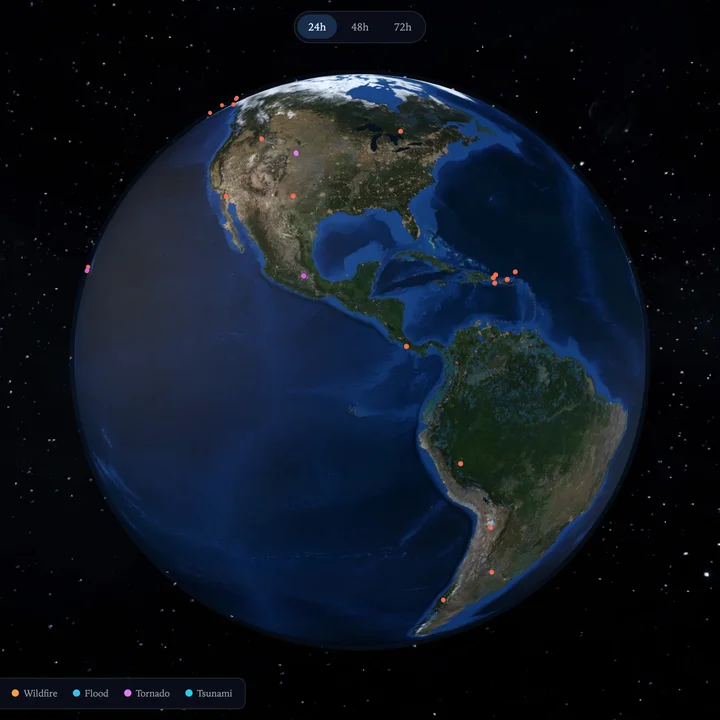
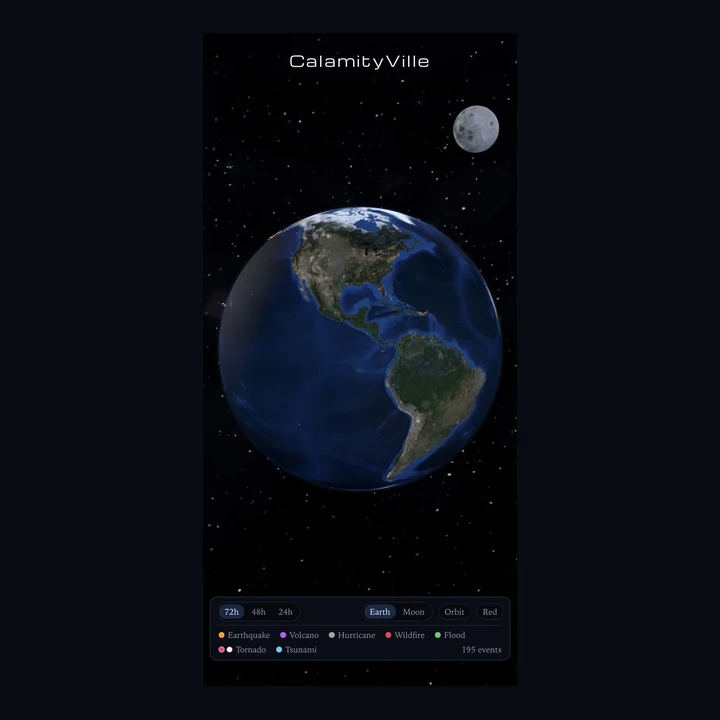
Update CalamityVille hub card from IMG_4185 letterboxed phone UI.
Match SuperMoon-style square card (full rectangular screenshot with
padding). Eager load like SuperMoon; local card links use HTTPS; add
serve-https.py for LAN hub preview.

diff --git a/index.html b/index.html
@@ -336,14 +336,15 @@
         </li>
 
         <li class="grid-item">
-          <a class="card" href="https://calamityville.markmaga.com" data-app="calamityville-app" aria-label="Calamityville">
+          <a class="card" href="https://calamityville.markmaga.com" data-app="calamityville-app" aria-label="CalamityVille">
             <span class="card-media">
               <img
-                src="images/calamityville-app.webp?v=1"
+                src="images/calamityville-app.webp?v=3"
                 alt=""
                 width="720"
                 height="720"
-                loading="lazy"
+                loading="eager"
+                fetchpriority="high"
                 decoding="async"
               />
               <span class="card-overlay" aria-hidden="true">
@@ -487,7 +488,8 @@
         const appHost = host === "localhost" ? "127.0.0.1" : host;
         document.querySelectorAll("a.card[data-app]").forEach((link) => {
           const port = LOCAL_PORTS[link.dataset.app];
-          if (port) link.href = `http://${appHost}:${port}/`;
+          /* Local previews use serve-https.py — https so card taps match live servers */
+          if (port) link.href = `https://${appHost}:${port}/`;
         });
       }
 

diff --git a/serve-https.py b/serve-https.py
@@ -1,0 +1,105 @@
+#!/usr/bin/env python3
+"""Serve markmaga-hub over HTTPS on all interfaces for Mac + phone LAN preview."""
+from http.server import ThreadingHTTPServer, SimpleHTTPRequestHandler
+from pathlib import Path
+import ssl
+import sys
+
+ROOT = Path(__file__).resolve().parent
+DEFAULT_PORT = 8870
+CERT = ROOT / ".local-cert.pem"
+KEY = ROOT / ".local-key.pem"
+
+
+class Handler(SimpleHTTPRequestHandler):
+    def __init__(self, *args, **kwargs):
+        super().__init__(*args, directory=str(ROOT), **kwargs)
+
+    def end_headers(self):
+        path = (self.path or "").split("?", 1)[0].lower()
+        if path.endswith(
+            (
+                ".png",
+                ".jpg",
+                ".jpeg",
+                ".webp",
+                ".ico",
+                ".webmanifest",
+                ".svg",
+            )
+        ) or path.endswith("manifest.webmanifest"):
+            self.send_header("Cache-Control", "no-cache, must-revalidate")
+        else:
+            self.send_header("Cache-Control", "no-cache, no-store, must-revalidate")
+        super().end_headers()
+
+    def log_message(self, fmt, *args):
+        sys.stderr.write("%s - %s\n" % (self.address_string(), fmt % args))
+
+
+def _lan_ips():
+    ips = []
+    try:
+        import socket
+
+        hostname = socket.gethostname()
+        for info in socket.getaddrinfo(hostname, None, socket.AF_INET):
+            ip = info[4][0]
+            if ip and not ip.startswith("127.") and ip not in ips:
+                ips.append(ip)
+    except Exception:
+        pass
+    try:
+        import subprocess
+
+        for iface in ("en0", "en1", "en2"):
+            out = subprocess.check_output(
+                ["ipconfig", "getifaddr", iface], stderr=subprocess.DEVNULL, text=True
+            ).strip()
+            if out and out not in ips:
+                ips.insert(0, out)
+    except Exception:
+        pass
+    return ips
+
+
+def main():
+    mode = "https"
+    argv = [a for a in sys.argv[1:] if a]
+    port = DEFAULT_PORT
+    if argv and argv[0] in ("--http", "http"):
+        mode = "http"
+        argv = argv[1:]
+    if argv:
+        port = int(argv[0])
+
+    httpd = ThreadingHTTPServer(("0.0.0.0", port), Handler)
+    lan = _lan_ips()
+
+    if mode == "https":
+        if not CERT.exists() or not KEY.exists():
+            print("Missing .local-cert.pem / .local-key.pem", file=sys.stderr)
+            sys.exit(1)
+        ctx = ssl.SSLContext(ssl.PROTOCOL_TLS_SERVER)
+        ctx.load_cert_chain(certfile=str(CERT), keyfile=str(KEY))
+        httpd.socket = ctx.wrap_socket(httpd.socket, server_side=True)
+        print("markmaga-hub HTTPS", flush=True)
+        print(f"  Mac:    https://127.0.0.1:{port}/", flush=True)
+        for ip in lan:
+            print(f"  device: https://{ip}:{port}/", flush=True)
+        print("  Self-signed: Advanced → proceed on first visit.", flush=True)
+    else:
+        print("markmaga-hub HTTP", flush=True)
+        print(f"  Mac:    http://127.0.0.1:{port}/", flush=True)
+        for ip in lan:
+            print(f"  device: http://{ip}:{port}/", flush=True)
+
+    print(f"  Dir:    {ROOT}", flush=True)
+    try:
+        httpd.serve_forever()
+    except KeyboardInterrupt:
+        print("\nstopped")
+
+
+if __name__ == "__main__":
+    main()
